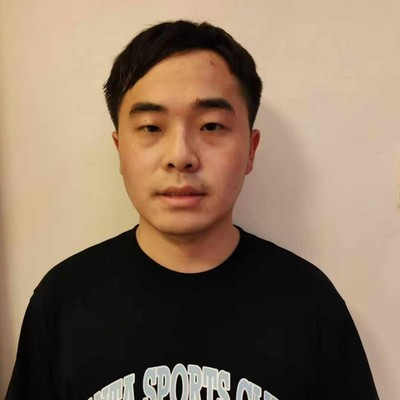
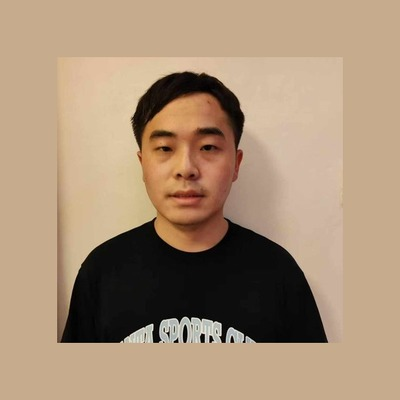
Remove Tsinghua branding from main page positions & crop member photos
- Remove Tsinghua/清华 from page title, hero subtitle, institution badge,
  team description, and footer tagline in both README.md and index.html
- Keep Tsinghua references in individual member info (departments, emails)
- Crop yunchao-mo & chengkui-wang photos closer to face
- Add padding to hui-geng photo to reduce face size in avatar
- Crop yannong-wen photo closer to upper body
- Sync cropped photos to both docs/fig and profile/fig

Made-with: Cursor

diff --git a/docs/index.html b/docs/index.html
@@ -3,7 +3,7 @@
 <head>
 <meta charset="UTF-8" />
 <meta name="viewport" content="width=device-width, initial-scale=1.0" />
-<title>SenseLabRobo - Tsinghua University</title>
+<title>SenseLabRobo</title>
 <link rel="preconnect" href="https://fonts.googleapis.com" />
 <link href="https://fonts.googleapis.com/css2?family=Inter:wght@300;400;500;600;700;800&display=swap" rel="stylesheet" />
 <style>
@@ -493,10 +493,10 @@
 <div class="container">
   <div class="hero">
     <h1><span class="accent">Sense</span>Lab<span class="accent">Robo</span></h1>
-    <p class="subtitle">Tsinghua University</p>
+    <p class="subtitle"></p>
     <img class="hero-img" src="./fig/hero-banner.jpg" alt="SenseLab Robot Prototype" />
     <div class="badges">
-      <a href="https://www.tsinghua.edu.cn/en/"><img src="https://img.shields.io/badge/Institution-Tsinghua_University-660099?style=for-the-badge&logoColor=white" alt="Tsinghua"/></a>
+      <a href="#"><img src="https://img.shields.io/badge/Lab_Website-SenseLabRobo-660099?style=for-the-badge&logoColor=white" alt="SenseLabRobo"/></a>
       <a href="#"><img src="https://img.shields.io/badge/Lab_Website-SenseLab.THU-blueviolet?style=for-the-badge&logo=google-chrome&logoColor=white" alt="Website"/></a>
     </div>
   </div>
@@ -542,7 +542,7 @@
 <div class="container">
   <section>
     <h2 class="section-title">The Team</h2>
-    <p class="section-sub">Driven by curiosity, united by code. We are a diverse group of researchers at Tsinghua.</p>
+    <p class="section-sub">Driven by curiosity, united by code. We are a diverse group of researchers.</p>
 
     <!-- PI -->
     <div class="pi-card reveal">
@@ -992,7 +992,7 @@
 
 <!-- Footer -->
 <footer>
-  <p><strong>Innovating at Tsinghua University.</strong></p>
+  <p><strong>Innovating with Purpose.</strong></p>
   <p>We are always looking for passionate collaborators and students.</p>
   <p style="margin-top: 12px;">
     <a href="mailto:qiaofei@tsinghua.edu.cn">✉ Contact Us</a> &nbsp;|&nbsp;

diff --git a/profile/README.md b/profile/README.md
@@ -1,7 +1,7 @@
 <div align="center">
 
   <h1>⚡ <span style="color: #660099;">Sense</span>Lab<span style="color: #660099;">Robo</span> ⚡</h1>
-  <h3>Tsinghua University | 清华大学</h3>
+  <h3></h3>
 
   <a href="https://github.com/SenseLabRobo">
     <img src="https://readme-typing-svg.demolab.com?font=Fira+Code&weight=600&size=24&pause=1000&color=660099&center=true&vCenter=true&width=600&lines=Perception+Driven.+Action+Oriented.;Next-Gen+Embodied+AI.;Bridging+Digital+and+Physical+Worlds." alt="Typing SVG" />
@@ -14,8 +14,8 @@
   <br/><br/>
 
   <p>
-    <a href="https://www.tsinghua.edu.cn/en/">
-      <img src="https://img.shields.io/badge/Institution-Tsinghua_University-660099?style=for-the-badge&logoColor=white" alt="Tsinghua University"/>
+    <a href="#">
+      <img src="https://img.shields.io/badge/Lab_Website-SenseLabRobo-660099?style=for-the-badge&logoColor=white" alt="SenseLabRobo"/>
     </a>
     <a href="#">
       <img src="https://img.shields.io/badge/Lab_Website-SenseLab.THU-blueviolet?style=for-the-badge&logo=google-chrome&logoColor=white" alt="Website"/>
@@ -62,7 +62,7 @@
 
 ## 🧬 The Team
 
-Driven by curiosity, united by code. We are a diverse group of researchers at Tsinghua.
+Driven by curiosity, united by code. We are a diverse group of researchers.
 
 <table style="border: 1px solid var(--color-border-muted); background-color: var(--color-canvas-subtle); border-radius: 16px; padding: 20px; width: 95%; margin: auto; box-shadow: 0 5px 20px rgba(0, 0, 0, 0.05);">
   <tr>
@@ -567,7 +567,7 @@ We leverage cutting-edge tools to power our research.
 
 <div align="center">
   <hr/>
-  <h3>Innovating at Tsinghua University.</h3>
+  <h3>Innovating with Purpose.</h3>
   <p>We are always looking for passionate collaborators and students.</p>
   <p>
     <a href="mailto:qiaofei@tsinghua.edu.cn">✉ Contact Us</a> | 
